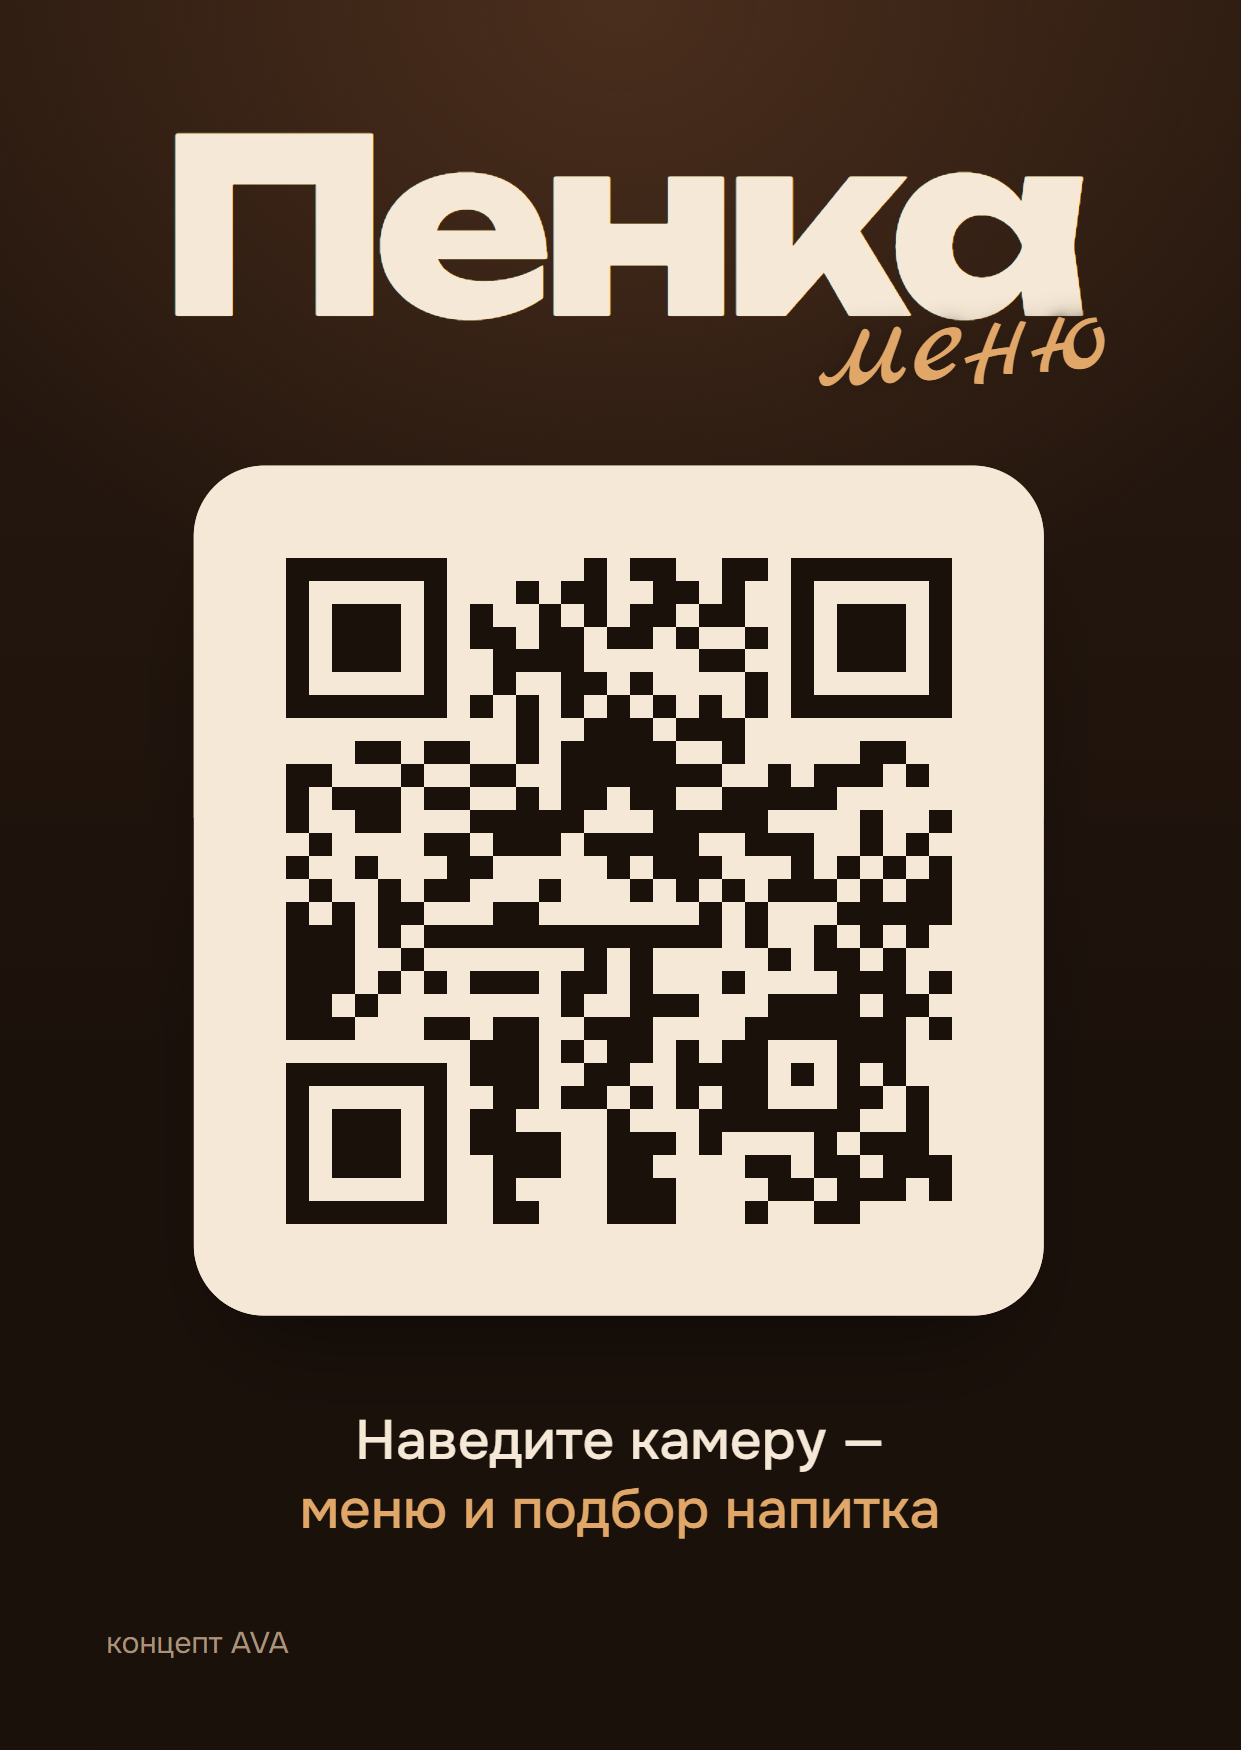
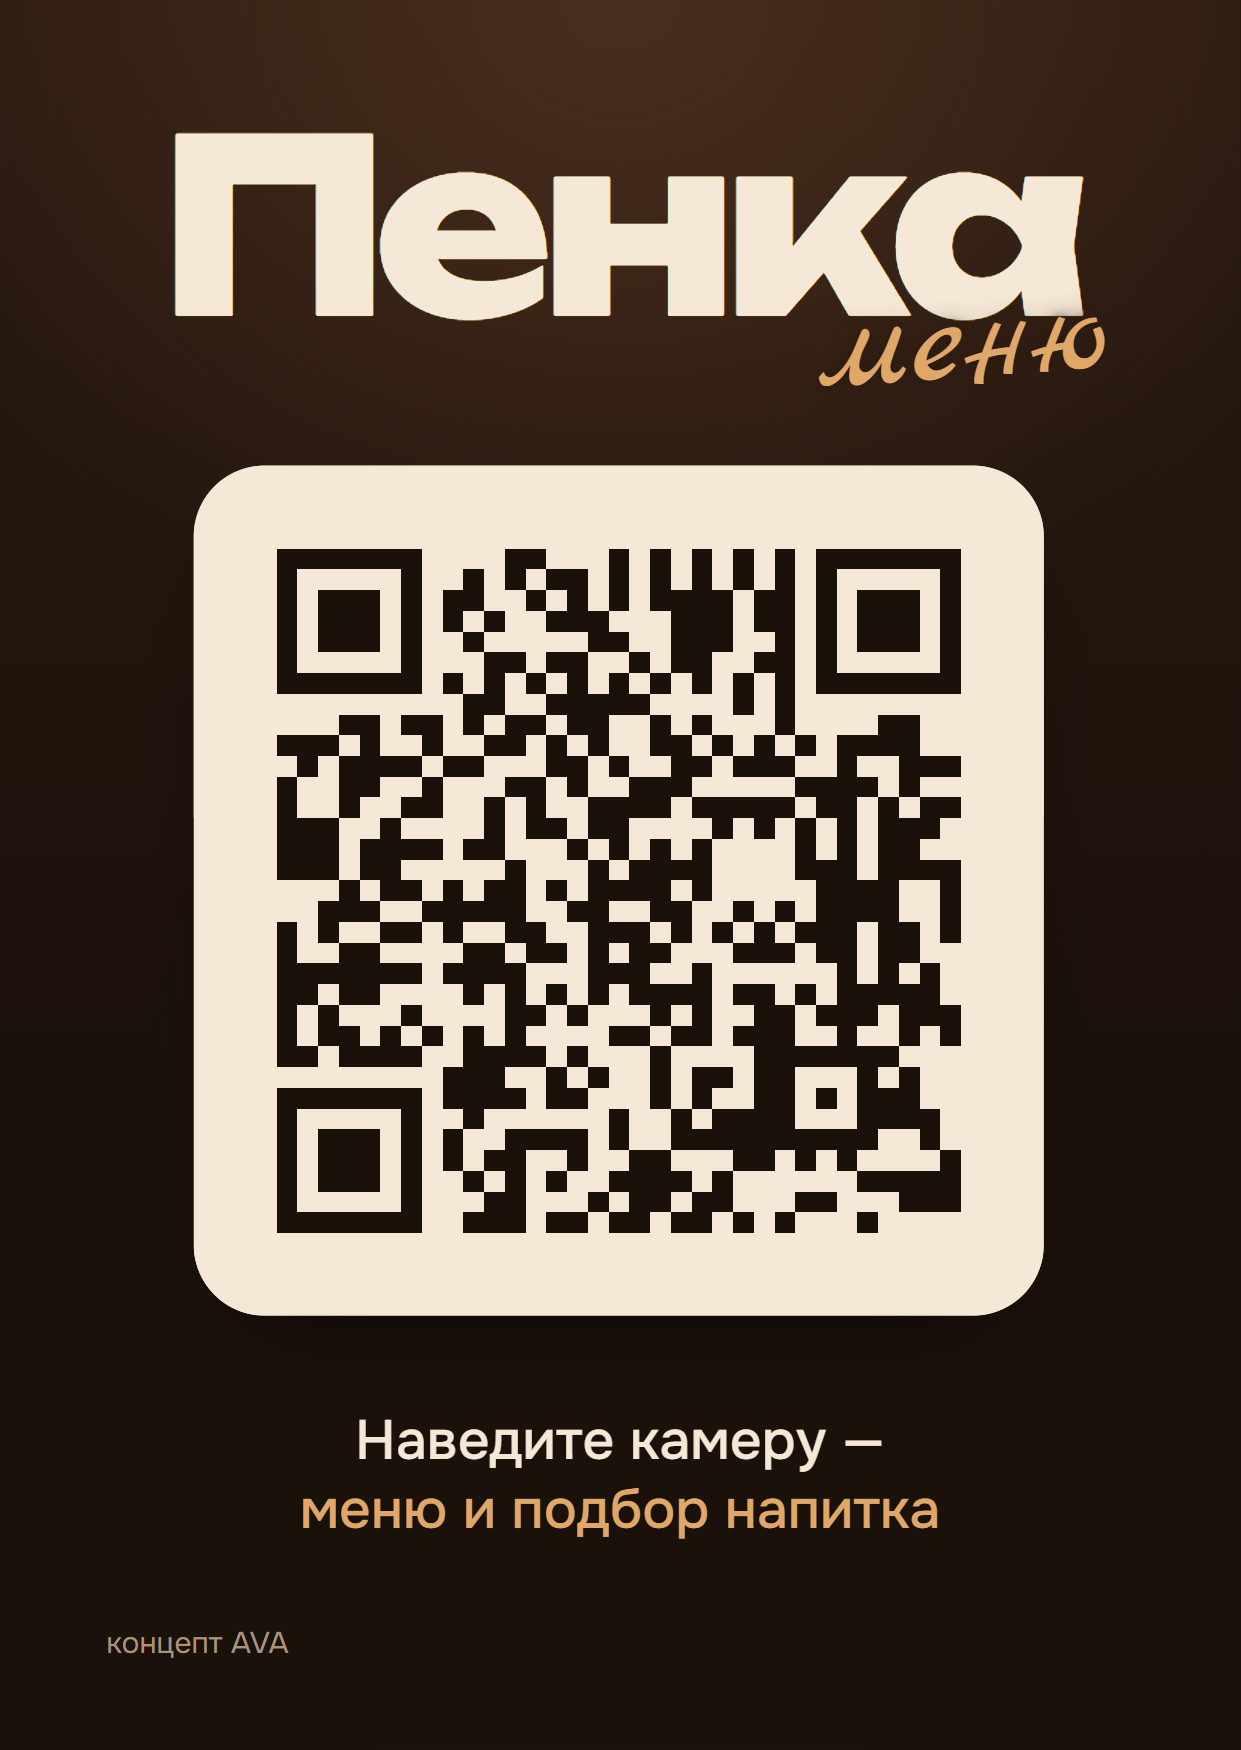
Табличка A6: QR на живой адрес penka-menuava.vercel.app

Changed region(s): [[0.2143, 0.3086, 0.7961, 0.7097]]

diff --git a/print/table-card.html b/print/table-card.html
@@ -53,7 +53,7 @@ html, body { -webkit-print-color-adjust: exact; print-color-adjust: exact; }
 <body>
 <main class="card">
   <div class="mark"><b>Пенка</b><i>меню</i></div>
-  <div class="panel"><svg class="qr" xmlns="http://www.w3.org/2000/svg" viewBox="0 0 37 37" shape-rendering="crispEdges" role="img" aria-label="QR-код: https://penka.hce.ru/"><rect width="100%" height="100%" fill="#f5e8d6"/><path d="M4 4h7v1h-7zM17 4h1v1h-1zM19 4h2v1h-2zM23 4h2v1h-2zM26 4h7v1h-7zM4 5h1v1h-1zM10 5h1v1h-1zM14 5h1v1h-1zM16 5h2v1h-2zM20 5h2v1h-2zM23 5h1v1h-1zM26 5h1v1h-1zM32 5h1v1h-1zM4 6h1v1h-1zM6 6h3v1h-3zM10 6h1v1h-1zM12 6h1v1h-1zM15 6h1v1h-1zM17 6h1v1h-1zM19 6h2v1h-2zM22 6h2v1h-2zM26 6h1v1h-1zM28 6h3v1h-3zM32 6h1v1h-1zM4 7h1v1h-1zM6 7h3v1h-3zM10 7h1v1h-1zM12 7h2v1h-2zM15 7h2v1h-2zM18 7h2v1h-2zM21 7h1v1h-1zM24 7h1v1h-1zM26 7h1v1h-1zM28 7h3v1h-3zM32 7h1v1h-1zM4 8h1v1h-1zM6 8h3v1h-3zM10 8h1v1h-1zM13 8h4v1h-4zM22 8h2v1h-2zM26 8h1v1h-1zM28 8h3v1h-3zM32 8h1v1h-1zM4 9h1v1h-1zM10 9h1v1h-1zM13 9h1v1h-1zM16 9h2v1h-2zM19 9h1v1h-1zM24 9h1v1h-1zM26 9h1v1h-1zM32 9h1v1h-1zM4 10h7v1h-7zM12 10h1v1h-1zM14 10h1v1h-1zM16 10h1v1h-1zM18 10h1v1h-1zM20 10h1v1h-1zM22 10h1v1h-1zM24 10h1v1h-1zM26 10h7v1h-7zM14 11h1v1h-1zM17 11h3v1h-3zM21 11h3v1h-3zM7 12h2v1h-2zM10 12h2v1h-2zM14 12h1v1h-1zM16 12h5v1h-5zM23 12h1v1h-1zM29 12h2v1h-2zM4 13h2v1h-2zM9 13h1v1h-1zM12 13h2v1h-2zM16 13h7v1h-7zM25 13h1v1h-1zM27 13h3v1h-3zM31 13h1v1h-1zM4 14h1v1h-1zM6 14h3v1h-3zM10 14h2v1h-2zM14 14h1v1h-1zM16 14h2v1h-2zM19 14h2v1h-2zM23 14h5v1h-5zM4 15h1v1h-1zM7 15h2v1h-2zM12 15h5v1h-5zM20 15h5v1h-5zM29 15h1v1h-1zM32 15h1v1h-1zM5 16h1v1h-1zM10 16h2v1h-2zM13 16h3v1h-3zM17 16h5v1h-5zM24 16h3v1h-3zM29 16h1v1h-1zM31 16h1v1h-1zM4 17h1v1h-1zM7 17h1v1h-1zM11 17h2v1h-2zM18 17h1v1h-1zM20 17h3v1h-3zM26 17h1v1h-1zM28 17h1v1h-1zM30 17h1v1h-1zM32 17h1v1h-1zM5 18h1v1h-1zM8 18h1v1h-1zM10 18h2v1h-2zM15 18h1v1h-1zM19 18h1v1h-1zM21 18h1v1h-1zM23 18h1v1h-1zM25 18h3v1h-3zM29 18h1v1h-1zM31 18h2v1h-2zM4 19h1v1h-1zM6 19h1v1h-1zM8 19h2v1h-2zM13 19h2v1h-2zM22 19h1v1h-1zM24 19h1v1h-1zM28 19h5v1h-5zM4 20h3v1h-3zM8 20h1v1h-1zM10 20h13v1h-13zM24 20h1v1h-1zM27 20h1v1h-1zM29 20h1v1h-1zM31 20h1v1h-1zM4 21h3v1h-3zM9 21h1v1h-1zM17 21h1v1h-1zM19 21h1v1h-1zM25 21h1v1h-1zM27 21h2v1h-2zM30 21h1v1h-1zM4 22h3v1h-3zM8 22h1v1h-1zM10 22h1v1h-1zM12 22h3v1h-3zM16 22h2v1h-2zM19 22h1v1h-1zM23 22h1v1h-1zM28 22h3v1h-3zM32 22h1v1h-1zM4 23h2v1h-2zM7 23h1v1h-1zM16 23h1v1h-1zM19 23h3v1h-3zM25 23h4v1h-4zM30 23h2v1h-2zM4 24h3v1h-3zM10 24h2v1h-2zM13 24h2v1h-2zM17 24h3v1h-3zM24 24h7v1h-7zM32 24h1v1h-1zM12 25h3v1h-3zM16 25h1v1h-1zM18 25h2v1h-2zM21 25h1v1h-1zM23 25h2v1h-2zM28 25h3v1h-3zM4 26h7v1h-7zM12 26h3v1h-3zM17 26h2v1h-2zM21 26h4v1h-4zM26 26h1v1h-1zM28 26h1v1h-1zM30 26h1v1h-1zM4 27h1v1h-1zM10 27h1v1h-1zM13 27h2v1h-2zM16 27h2v1h-2zM19 27h1v1h-1zM21 27h1v1h-1zM23 27h2v1h-2zM28 27h2v1h-2zM31 27h1v1h-1zM4 28h1v1h-1zM6 28h3v1h-3zM10 28h1v1h-1zM12 28h2v1h-2zM18 28h1v1h-1zM22 28h7v1h-7zM31 28h1v1h-1zM4 29h1v1h-1zM6 29h3v1h-3zM10 29h1v1h-1zM12 29h4v1h-4zM18 29h3v1h-3zM22 29h1v1h-1zM27 29h1v1h-1zM29 29h3v1h-3zM4 30h1v1h-1zM6 30h3v1h-3zM10 30h1v1h-1zM13 30h3v1h-3zM18 30h2v1h-2zM24 30h2v1h-2zM27 30h2v1h-2zM30 30h3v1h-3zM4 31h1v1h-1zM10 31h1v1h-1zM13 31h1v1h-1zM18 31h3v1h-3zM25 31h2v1h-2zM28 31h3v1h-3zM32 31h1v1h-1zM4 32h7v1h-7zM13 32h2v1h-2zM18 32h3v1h-3zM24 32h1v1h-1zM27 32h2v1h-2z" fill="#1b110b"/></svg></div>
+  <div class="panel"><svg class="qr" xmlns="http://www.w3.org/2000/svg" viewBox="0 0 41 41" shape-rendering="crispEdges" role="img" aria-label="QR-код: https://penka-menuava.vercel.app/"><rect width="100%" height="100%" fill="#f5e8d6"/><path d="M4 4h7v1h-7zM15 4h2v1h-2zM20 4h1v1h-1zM22 4h1v1h-1zM24 4h1v1h-1zM26 4h1v1h-1zM28 4h1v1h-1zM30 4h7v1h-7zM4 5h1v1h-1zM10 5h1v1h-1zM13 5h1v1h-1zM15 5h1v1h-1zM17 5h2v1h-2zM20 5h1v1h-1zM22 5h1v1h-1zM24 5h1v1h-1zM26 5h1v1h-1zM28 5h1v1h-1zM30 5h1v1h-1zM36 5h1v1h-1zM4 6h1v1h-1zM6 6h3v1h-3zM10 6h1v1h-1zM12 6h2v1h-2zM16 6h1v1h-1zM18 6h1v1h-1zM20 6h1v1h-1zM22 6h4v1h-4zM27 6h2v1h-2zM30 6h1v1h-1zM32 6h3v1h-3zM36 6h1v1h-1zM4 7h1v1h-1zM6 7h3v1h-3zM10 7h1v1h-1zM12 7h1v1h-1zM14 7h1v1h-1zM17 7h3v1h-3zM23 7h3v1h-3zM27 7h2v1h-2zM30 7h1v1h-1zM32 7h3v1h-3zM36 7h1v1h-1zM4 8h1v1h-1zM6 8h3v1h-3zM10 8h1v1h-1zM13 8h1v1h-1zM19 8h2v1h-2zM23 8h3v1h-3zM28 8h1v1h-1zM30 8h1v1h-1zM32 8h3v1h-3zM36 8h1v1h-1zM4 9h1v1h-1zM10 9h1v1h-1zM14 9h2v1h-2zM17 9h2v1h-2zM21 9h1v1h-1zM23 9h2v1h-2zM27 9h2v1h-2zM30 9h1v1h-1zM36 9h1v1h-1zM4 10h7v1h-7zM12 10h1v1h-1zM14 10h1v1h-1zM16 10h1v1h-1zM18 10h1v1h-1zM20 10h1v1h-1zM22 10h1v1h-1zM24 10h1v1h-1zM26 10h1v1h-1zM28 10h1v1h-1zM30 10h7v1h-7zM13 11h2v1h-2zM17 11h5v1h-5zM26 11h1v1h-1zM28 11h1v1h-1zM7 12h2v1h-2zM10 12h2v1h-2zM13 12h1v1h-1zM15 12h2v1h-2zM18 12h2v1h-2zM22 12h1v1h-1zM24 12h1v1h-1zM28 12h1v1h-1zM33 12h2v1h-2zM4 13h3v1h-3zM8 13h1v1h-1zM11 13h1v1h-1zM14 13h2v1h-2zM17 13h1v1h-1zM19 13h1v1h-1zM22 13h2v1h-2zM25 13h1v1h-1zM27 13h1v1h-1zM29 13h1v1h-1zM31 13h4v1h-4zM5 14h1v1h-1zM7 14h4v1h-4zM12 14h2v1h-2zM17 14h2v1h-2zM20 14h1v1h-1zM23 14h2v1h-2zM26 14h3v1h-3zM31 14h1v1h-1zM34 14h3v1h-3zM4 15h1v1h-1zM7 15h2v1h-2zM11 15h1v1h-1zM15 15h2v1h-2zM18 15h1v1h-1zM21 15h3v1h-3zM29 15h4v1h-4zM34 15h1v1h-1zM4 16h1v1h-1zM7 16h1v1h-1zM10 16h2v1h-2zM14 16h1v1h-1zM16 16h1v1h-1zM19 16h4v1h-4zM24 16h5v1h-5zM30 16h2v1h-2zM33 16h1v1h-1zM35 16h2v1h-2zM4 17h3v1h-3zM9 17h1v1h-1zM14 17h1v1h-1zM16 17h2v1h-2zM19 17h2v1h-2zM25 17h1v1h-1zM27 17h1v1h-1zM29 17h1v1h-1zM31 17h1v1h-1zM33 17h3v1h-3zM4 18h3v1h-3zM8 18h4v1h-4zM13 18h2v1h-2zM18 18h1v1h-1zM20 18h1v1h-1zM22 18h1v1h-1zM24 18h1v1h-1zM29 18h1v1h-1zM31 18h1v1h-1zM33 18h2v1h-2zM4 19h3v1h-3zM8 19h2v1h-2zM15 19h1v1h-1zM19 19h1v1h-1zM21 19h4v1h-4zM29 19h3v1h-3zM33 19h4v1h-4zM7 20h1v1h-1zM9 20h2v1h-2zM12 20h1v1h-1zM14 20h2v1h-2zM17 20h1v1h-1zM19 20h4v1h-4zM24 20h1v1h-1zM30 20h4v1h-4zM36 20h1v1h-1zM6 21h3v1h-3zM11 21h5v1h-5zM18 21h2v1h-2zM22 21h2v1h-2zM26 21h1v1h-1zM28 21h1v1h-1zM30 21h4v1h-4zM36 21h1v1h-1zM4 22h1v1h-1zM6 22h1v1h-1zM9 22h2v1h-2zM12 22h1v1h-1zM15 22h2v1h-2zM19 22h3v1h-3zM23 22h1v1h-1zM25 22h1v1h-1zM27 22h1v1h-1zM29 22h3v1h-3zM33 22h2v1h-2zM36 22h1v1h-1zM4 23h1v1h-1zM7 23h2v1h-2zM13 23h2v1h-2zM16 23h2v1h-2zM19 23h1v1h-1zM21 23h2v1h-2zM26 23h3v1h-3zM30 23h2v1h-2zM33 23h2v1h-2zM4 24h7v1h-7zM12 24h4v1h-4zM19 24h3v1h-3zM24 24h1v1h-1zM31 24h1v1h-1zM33 24h1v1h-1zM35 24h1v1h-1zM4 25h2v1h-2zM7 25h2v1h-2zM13 25h1v1h-1zM15 25h1v1h-1zM17 25h1v1h-1zM19 25h1v1h-1zM21 25h4v1h-4zM26 25h2v1h-2zM29 25h1v1h-1zM31 25h5v1h-5zM4 26h1v1h-1zM6 26h1v1h-1zM10 26h1v1h-1zM15 26h2v1h-2zM18 26h1v1h-1zM22 26h1v1h-1zM24 26h1v1h-1zM27 26h2v1h-2zM30 26h3v1h-3zM34 26h3v1h-3zM4 27h1v1h-1zM6 27h2v1h-2zM9 27h1v1h-1zM11 27h1v1h-1zM13 27h1v1h-1zM15 27h1v1h-1zM20 27h2v1h-2zM23 27h2v1h-2zM26 27h3v1h-3zM31 27h1v1h-1zM34 27h1v1h-1zM36 27h1v1h-1zM4 28h2v1h-2zM7 28h4v1h-4zM13 28h4v1h-4zM18 28h1v1h-1zM22 28h1v1h-1zM27 28h7v1h-7zM12 29h3v1h-3zM17 29h1v1h-1zM19 29h1v1h-1zM22 29h1v1h-1zM24 29h2v1h-2zM27 29h2v1h-2zM32 29h1v1h-1zM34 29h1v1h-1zM4 30h7v1h-7zM12 30h4v1h-4zM17 30h2v1h-2zM22 30h1v1h-1zM24 30h1v1h-1zM27 30h2v1h-2zM30 30h1v1h-1zM32 30h3v1h-3zM4 31h1v1h-1zM10 31h1v1h-1zM13 31h1v1h-1zM20 31h1v1h-1zM23 31h1v1h-1zM25 31h4v1h-4zM32 31h4v1h-4zM4 32h1v1h-1zM6 32h3v1h-3zM10 32h1v1h-1zM12 32h1v1h-1zM15 32h4v1h-4zM20 32h1v1h-1zM23 32h10v1h-10zM35 32h1v1h-1zM4 33h1v1h-1zM6 33h3v1h-3zM10 33h1v1h-1zM12 33h1v1h-1zM14 33h2v1h-2zM18 33h1v1h-1zM21 33h2v1h-2zM26 33h2v1h-2zM29 33h1v1h-1zM31 33h1v1h-1zM36 33h1v1h-1zM4 34h1v1h-1zM6 34h3v1h-3zM10 34h1v1h-1zM13 34h1v1h-1zM15 34h1v1h-1zM17 34h1v1h-1zM20 34h4v1h-4zM25 34h1v1h-1zM32 34h5v1h-5zM4 35h1v1h-1zM10 35h1v1h-1zM14 35h2v1h-2zM19 35h1v1h-1zM21 35h2v1h-2zM24 35h2v1h-2zM29 35h2v1h-2zM34 35h3v1h-3zM4 36h7v1h-7zM13 36h3v1h-3zM17 36h2v1h-2zM20 36h2v1h-2zM23 36h2v1h-2zM26 36h1v1h-1zM28 36h1v1h-1zM32 36h1v1h-1z" fill="#1b110b"/></svg></div>
   <p class="ask">Наведите камеру —<br><span>меню и подбор напитка</span></p>
   <p class="foot"><span>концепт AVA</span></p>
 </main>
